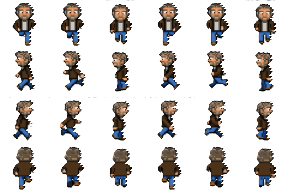
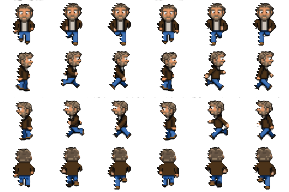
fixed main character bug

diff --git a/apps.js b/apps.js
@@ -26,14 +26,14 @@ var rows = 4; //sprite sheet has 4 rows
 var cols = 6; //spite sheet has 6 columns
 
 //second row for left movement counting from index 0
-var trackLeft = 1; 
+var trackLeft = 2; 
 //third row for right movement counting from index 0
-var trackRight = 3; 
-var trackUp = 0; //not using up and down 
-var trackDown = 2; // might have to change
+var trackRight = 1; 
+var trackUp = 3; //not using up and down 
+var trackDown = 0; // might have to change
 
-var spriteWidth = 200;
-var spriteHeight = 200; 
+var spriteWidth =289;
+var spriteHeight = 192; 
 var width = spriteWidth / cols;
 var height = spriteHeight / rows;
 
@@ -47,6 +47,10 @@ var srcY = 0;
 //assuming the at start the character will move right side
 var left = false; 
 var right = true;
+
+//adding up and right for the hero
+var up = false;
+var down =true; 
 
 // Monster image
 let monsterReady = false;
@@ -106,6 +110,16 @@ let update = function (modifier) {
         left = false;//for animation 
         right = true;// for animation
     }
+    if (38 in keysDown && hero.y > 0) { // Up key
+        hero.y -= hero.speed * modifier;
+        up = true;
+        down = false; 
+    }
+    if (40 in keysDown && hero.y < canvas.height - height) { // Down key
+        hero.y += hero.speed * modifier;
+        down = true;
+        up = false; 
+    }
 
     // Are they touching?
     if (
@@ -132,16 +146,34 @@ let update = function (modifier) {
 
     
     srcX = curXFrame * width;
-    if (left){
-        //calculate Y src 
-        srcY = trackLeft * height; 
+    // if (left){
+    //     //calculate Y src 
+    //     srcY = trackLeft * height; 
+    // }
+    // if (right){
+    //     srcY = trackRight * height; 
+    // }
+    // if (left == false && right == false){
+    //     srcX = 1 * width;
+    //     srcY = 2 * height;
+    // }
+
+    if (left || right) {
+        curXFrame = ++curXFrame % frameCount;
     }
-    if (right){
-        srcY = trackRight * height; 
+    if (up || down) {
+        curXFrame = 1; // Fixed frame for up and down movement
     }
-    if (left == false && right == false){
-        srcX = 1 * width;
-        srcY = 2 * height;
+
+    srcX = curXFrame * width;
+    if (left) {
+        srcY = trackLeft * height;
+    } else if (right) {
+        srcY = trackRight * height;
+    } else if (up) {
+        srcY = trackUp * height;
+    } else if (down) {
+        srcY = trackDown * height;
     }
 };
 
